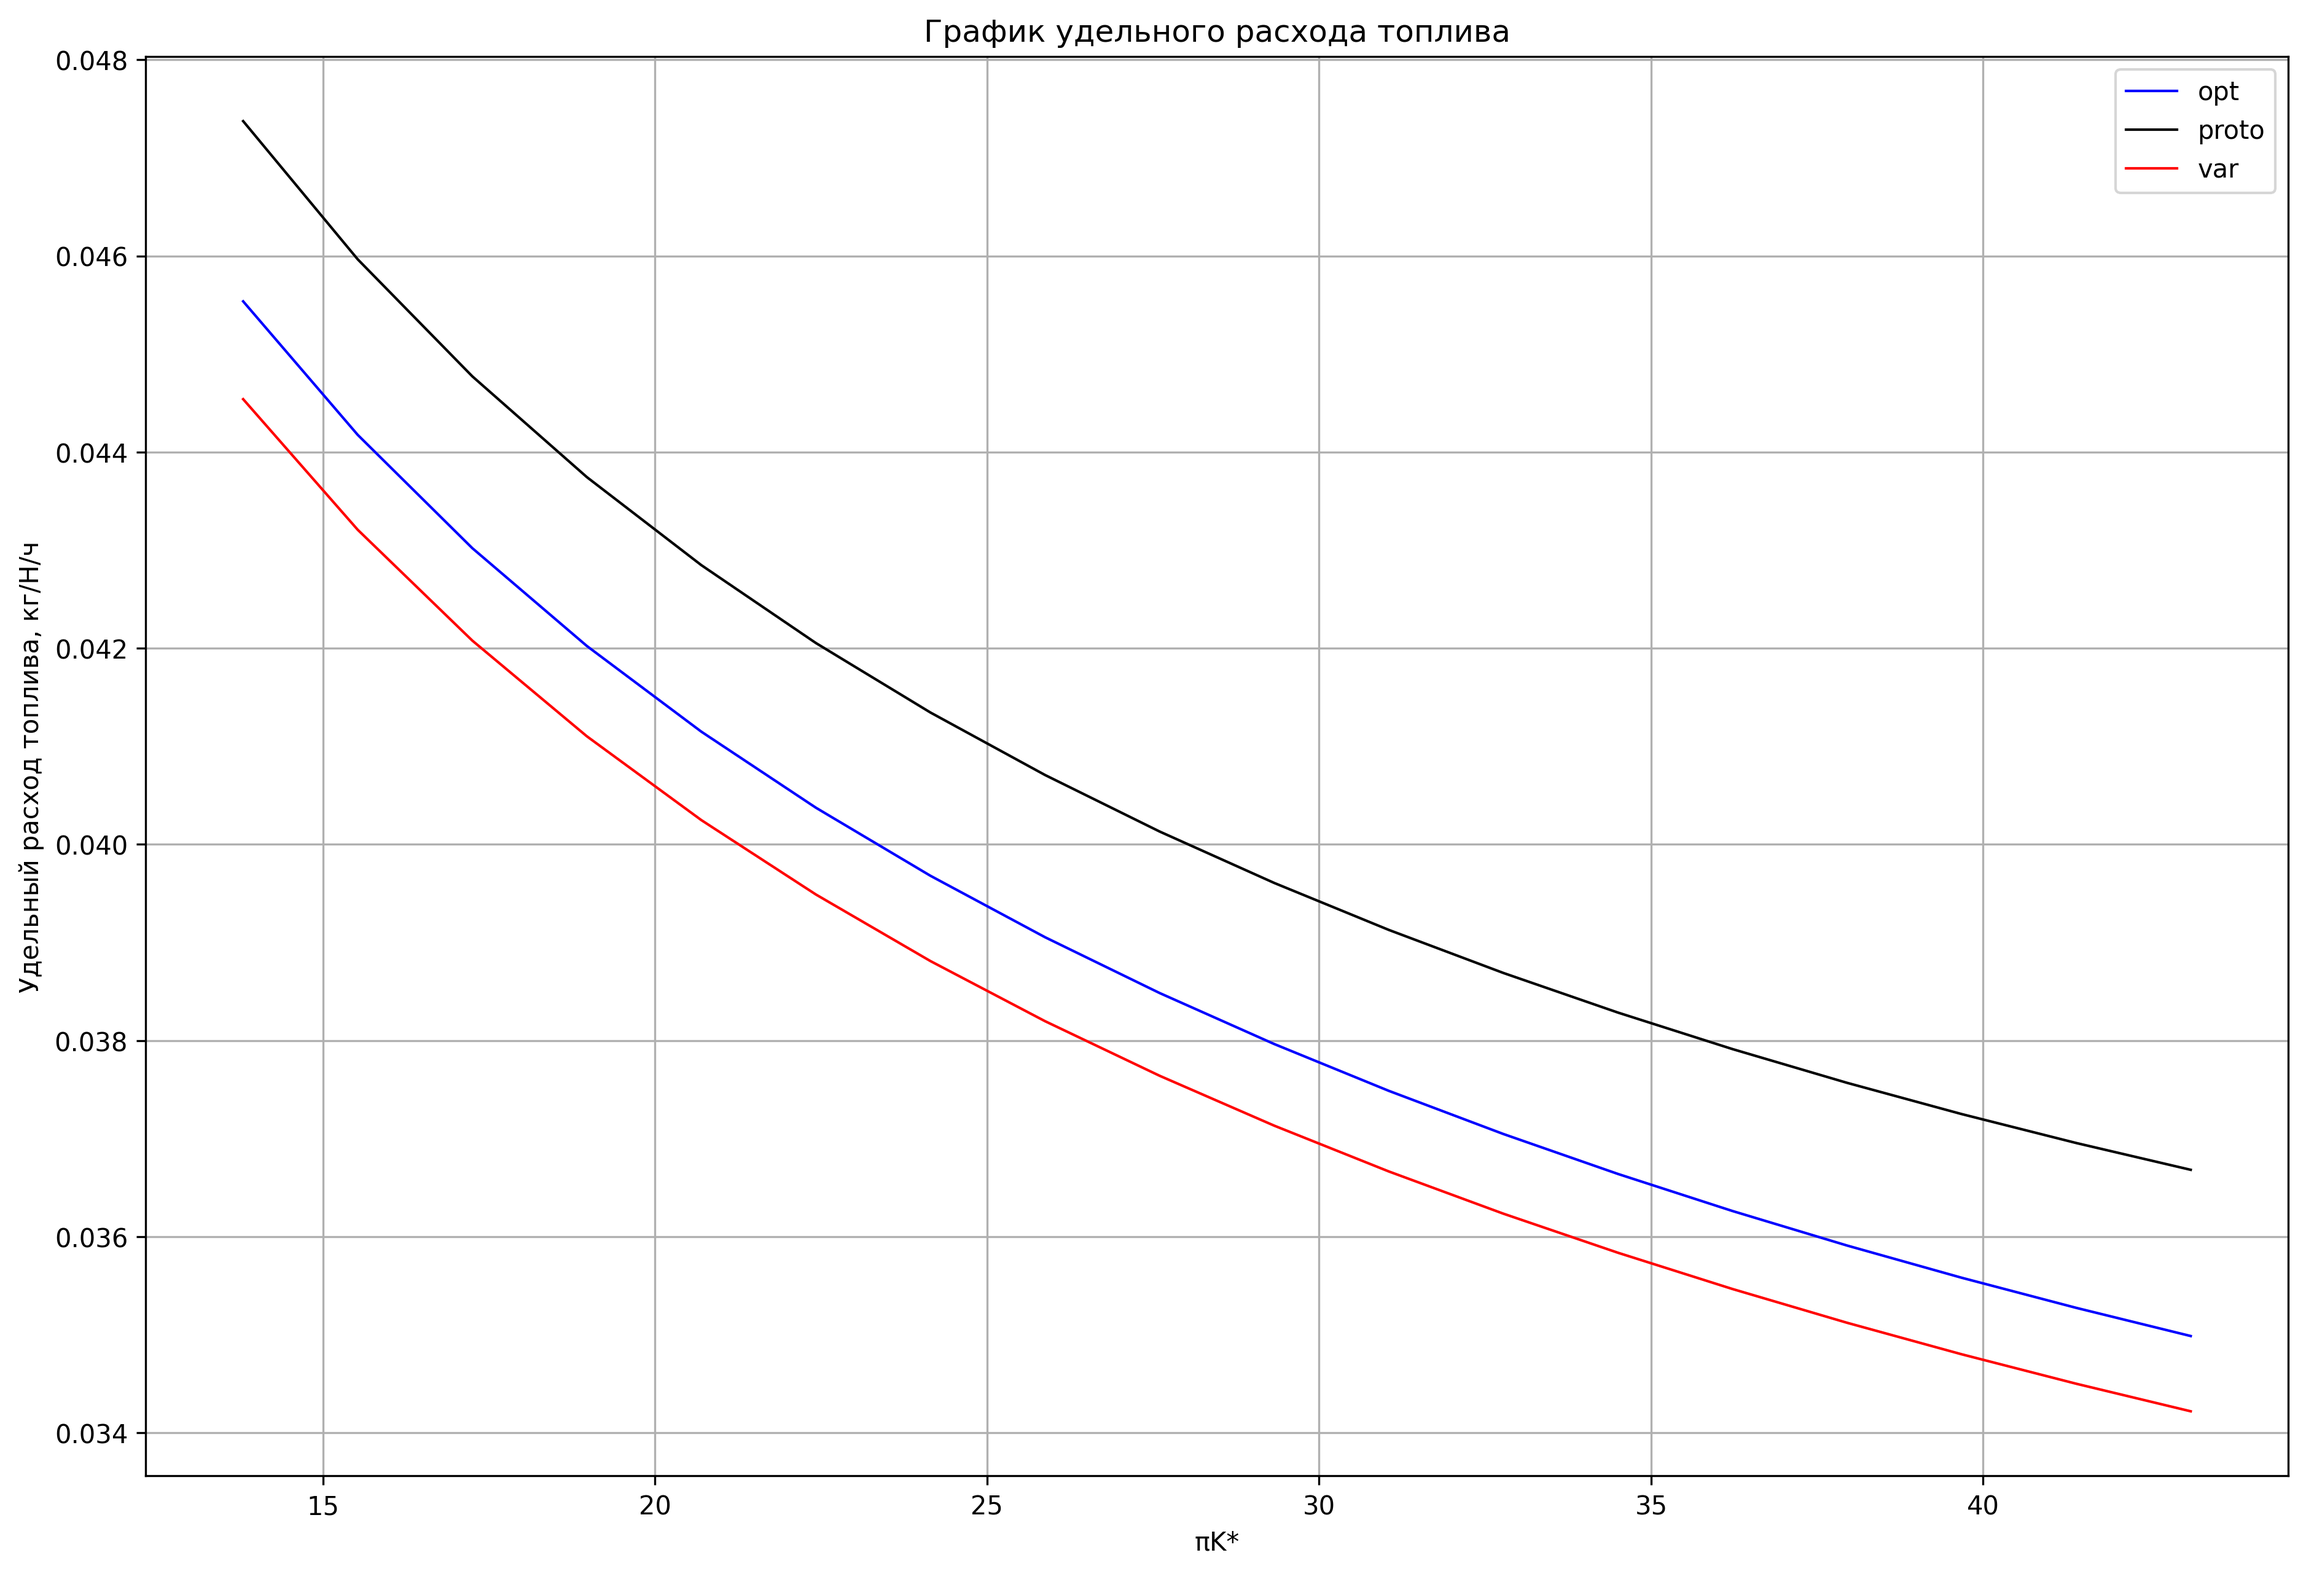
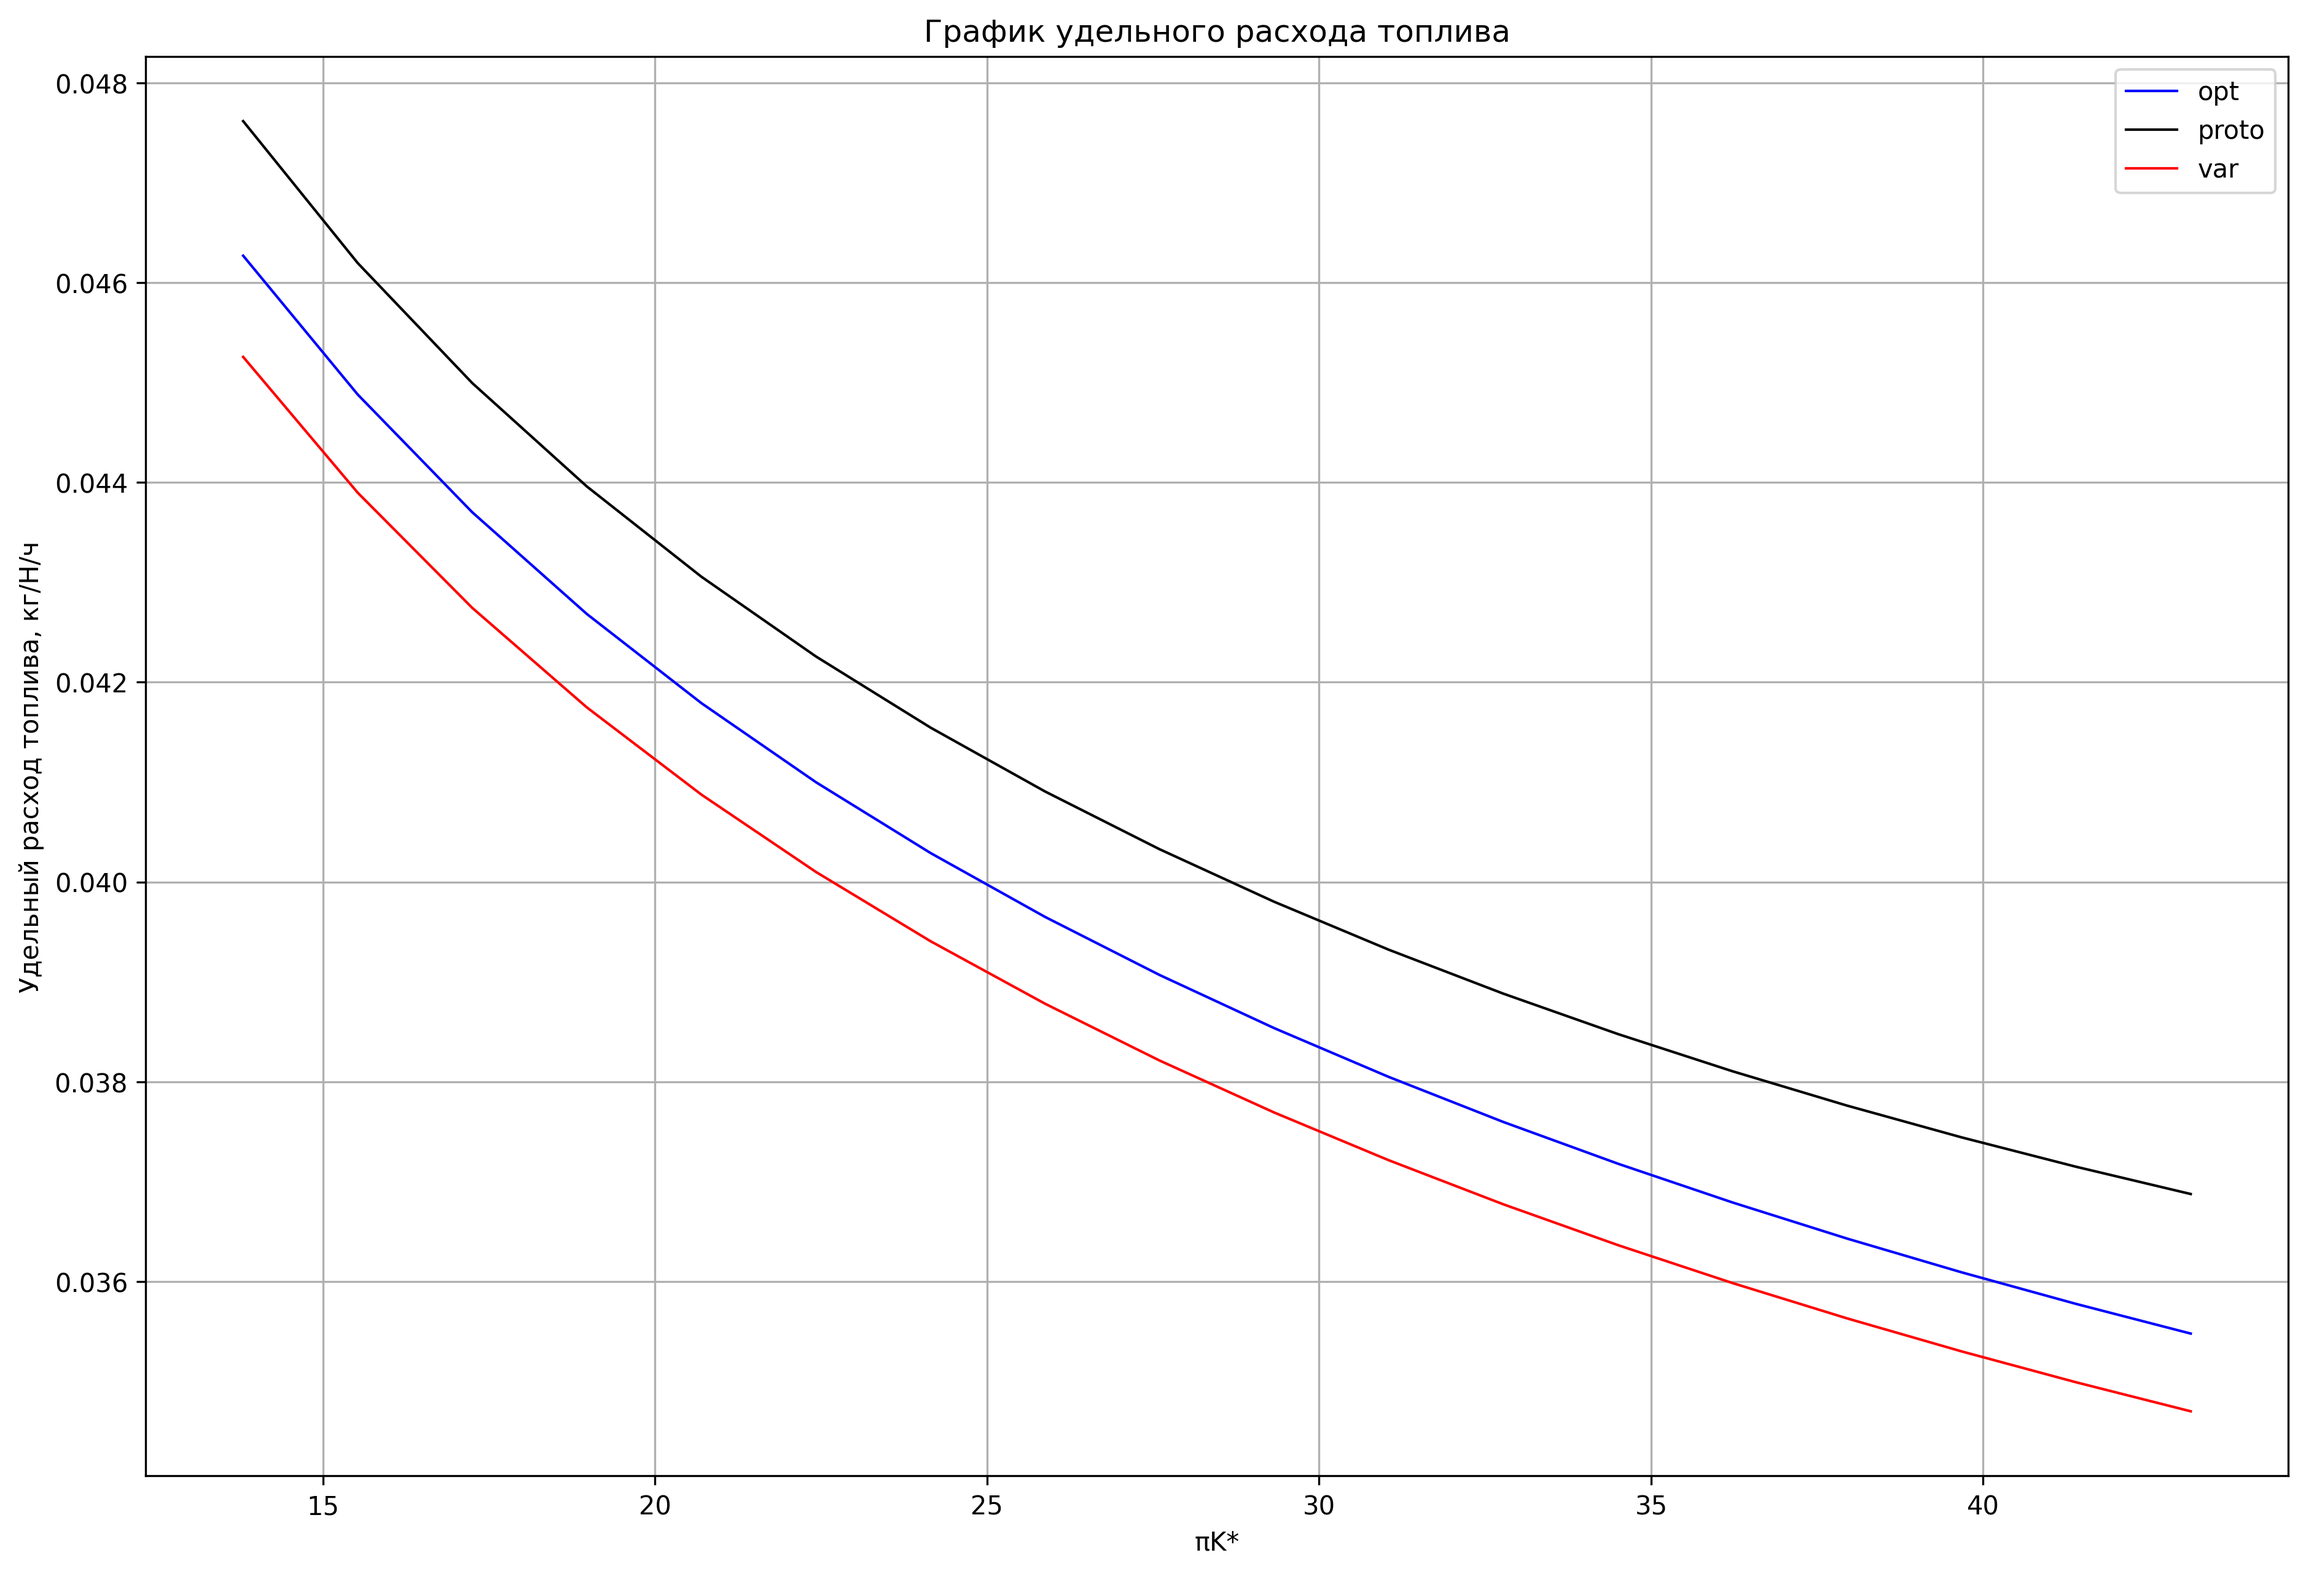
probobly-2

diff --git a/code/lab1.py b/code/lab1.py
@@ -122,7 +122,7 @@ def calc_proto(coef, T_gas_full_i, m_i, Pik_full_i):
                         coef["sigma_intake"],
                         coef["sigma_cc"],
                         kurs.calculate_combustion_properties(
-                0.86, 0.14, 288, T_gas_full_i, coef["effk_gas"]
+                0.86, 0.14,T_gas_full_i, 288, coef["effk_gas"]
             )['k'],
                         coef["effk_hpt_full"] * coef["effk_lpt_full"],
                         coef["sigma_1"],
@@ -134,7 +134,7 @@ def calc_proto(coef, T_gas_full_i, m_i, Pik_full_i):
                     q_T,
                     v_take,
                     kurs.compressor_efficiency(
-                        Pik_full_i, coef["sigma_intake"], k_air, coef["effk_comp_full"]
+                        Pik_full_i, coef["sigma_intake"], kurs.get_cp_air(T_k,288)['k'], coef["effk_comp_full"]
                     ),
                 )
     p_spec = kurs.calculate_P_spec(

diff --git a/code/main.py b/code/main.py
@@ -28,7 +28,7 @@ coef = {
         "g_air_back": 0.124,
     }
 res = lab.calc_opt_params(engine, coef)
-X = 1.075
+X = 1.1
 p_project = engine["P"] * X
 proto = lab.calc_proto(coef,engine["T_gas_full"], engine["m"], engine["Pik_full"])
 l_free_project = proto.l_free_energy * X * X
